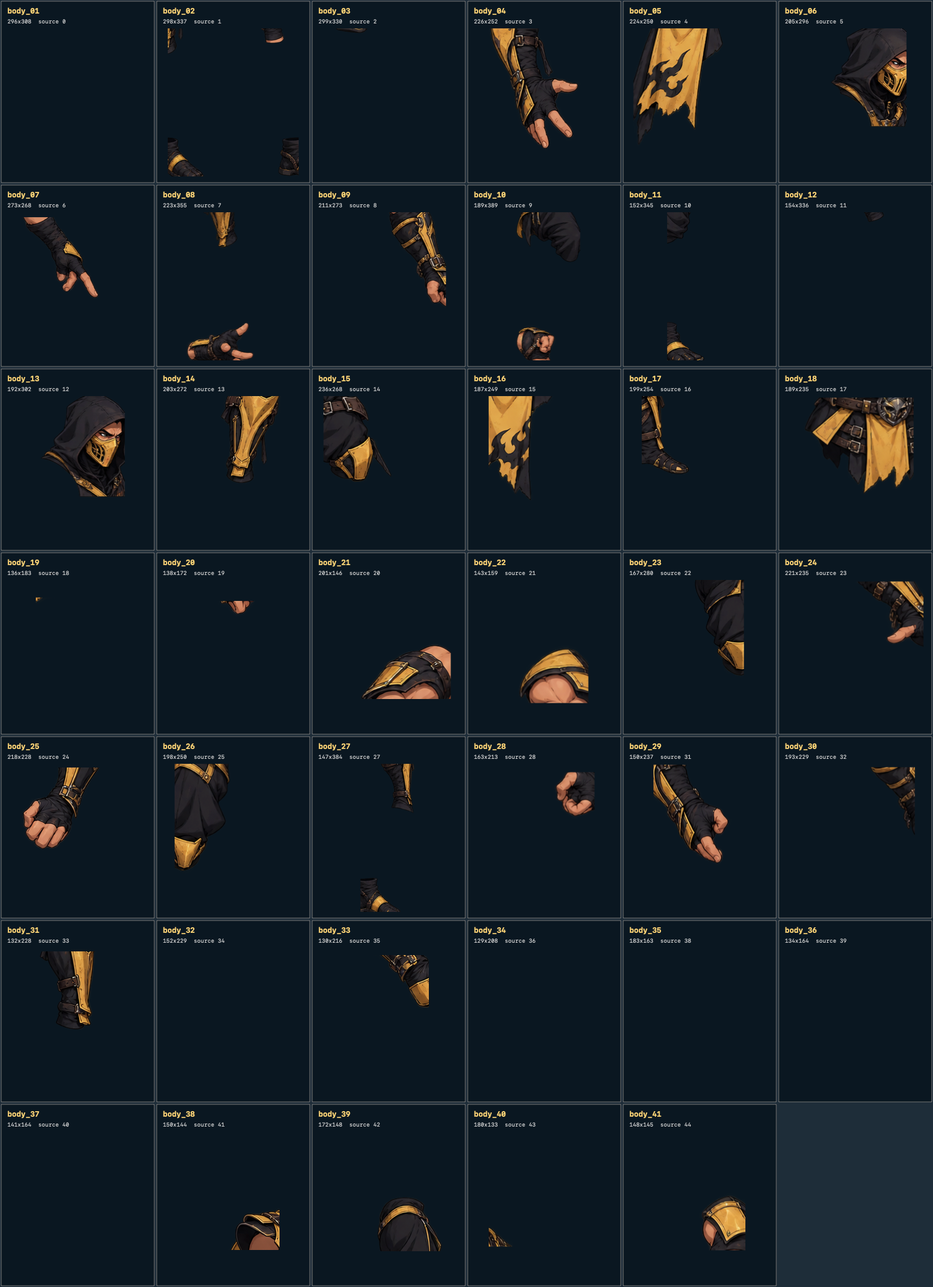
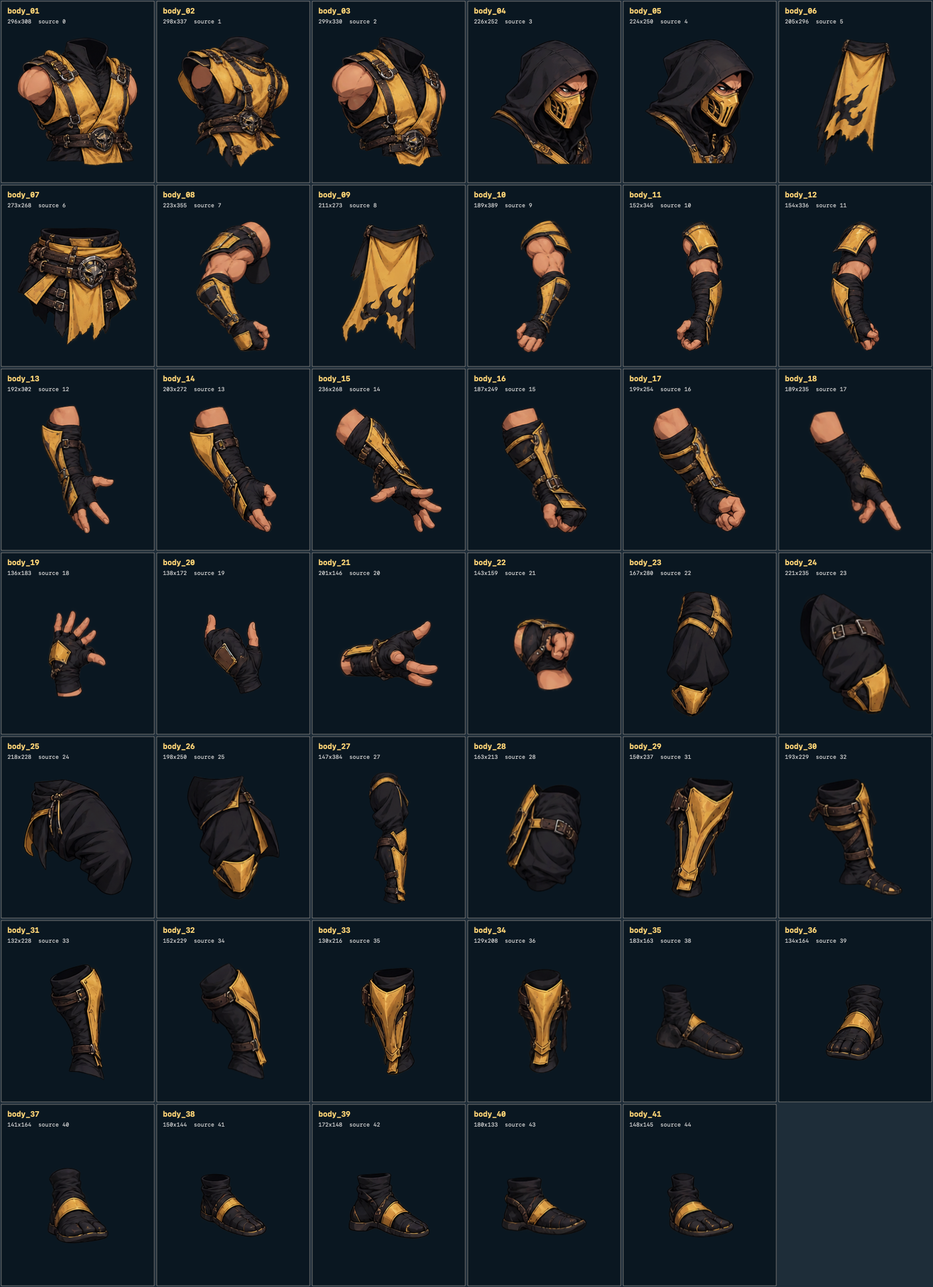
fix scorpion puppet atlas lab and mapping

diff --git a/runtime/rendering/scorpion-puppet-atlas.js b/runtime/rendering/scorpion-puppet-atlas.js
@@ -1,37 +1,190 @@
 (()=>{
 'use strict';
-// Phase 1 deliberately owns only the supplied body atlas. Weapon and VFX maps
-// remain preserved assets until their separate presentation work is approved.
+
+// Phase 1 loads only the supplied body PNG and its supplied rectangle map.
+// Disconnected alpha islands are derived in memory; no source asset is rewritten.
 const ROOT='assets/characters/scorpion/puppet/v1';
 const BODY_IMAGE=ROOT+'/body/scorpion_puppet_body_atlas_v1.png';
 const BODY_MAP=ROOT+'/body/scorpion_puppet_body_atlas_v1.json';
-const MODE_KEY='bb.scorpion-puppet-atlas.mode',DEV_KEY='bb.scorpion-puppet-atlas.dev';
-const state={mode:'FRAME',ready:false,failed:false,error:null,bodyImage:null,bodyMap:null,metrics:{puppetDraws:0,lastVisibleParts:0,lastDrawBounds:null,lastFeet:null,footSamples:[]}};
-try{state.mode=localStorage.getItem(MODE_KEY)==='PUPPET'?'PUPPET':'FRAME'}catch(_){ }
-const devEnabled=()=>{try{const query=new URLSearchParams(location.search);return query.has('scorpionPuppetAB')||localStorage.getItem(DEV_KEY)==='1'||['localhost','127.0.0.1','::1'].includes(location.hostname)}catch(_){return false}};
-function setMode(mode){state.mode=mode==='PUPPET'&&state.ready&&!state.failed?'PUPPET':'FRAME';try{localStorage.setItem(MODE_KEY,state.mode)}catch(_){ }const button=document.getElementById('bb-scorpion-puppet-ab-switch');if(button)button.textContent='SCORPION · '+state.mode+' (A/B)';return state.mode;}
-function ensureSwitch(){if(!devEnabled()||document.getElementById('bb-scorpion-puppet-ab-switch'))return;const button=document.createElement('button');button.id='bb-scorpion-puppet-ab-switch';button.type='button';button.title='Development-only Scorpion atlas prototype A/B switch';button.style.cssText='position:fixed;z-index:2147483000;right:10px;bottom:10px;padding:7px 9px;border:1px solid #f0b43c;border-radius:6px;background:#15110a;color:#ffe3a4;font:700 10px/1.1 system-ui;letter-spacing:.06em;box-shadow:0 2px 12px #0009';button.addEventListener('click',()=>setMode(state.mode==='FRAME'?'PUPPET':'FRAME'));document.body.appendChild(button);setMode(state.mode);}
-function imageReady(src){return new Promise((resolve,reject)=>{const image=new Image();image.decoding='async';image.onload=()=>resolve(image);image.onerror=()=>reject(new Error('Could not load '+src));image.src=src;});}
-function validateRectangleMap(map,image){if(!map||!Array.isArray(map.canvas)||map.canvas.length!==2||!map.parts)throw new Error('Body rectangle map shape is invalid');const [atlasWidth,atlasHeight]=map.canvas.map(Number);if(atlasWidth!==image.naturalWidth||atlasHeight!==image.naturalHeight)throw new Error('Body atlas dimensions do not match its rectangle map');for(const [name,rect] of Object.entries(map.parts)){for(const key of ['x','y','w','h'])if(!Number.isFinite(rect[key]))throw new Error('Invalid rectangle '+name);if(rect.x<0||rect.y<0||rect.w<=0||rect.h<=0||rect.x+rect.w>atlasWidth||rect.y+rect.h>atlasHeight)throw new Error('Out-of-bounds rectangle '+name);}return true;}
-async function loadBodyAtlas(){try{const [response,image]=await Promise.all([fetch(BODY_MAP,{cache:'no-store'}),imageReady(BODY_IMAGE)]);if(!response.ok)throw new Error('Could not load '+BODY_MAP+' ('+response.status+')');const map=await response.json();validateRectangleMap(map,image);state.bodyMap=map;state.bodyImage=image;state.ready=true;setMode(state.mode);}catch(error){state.failed=true;state.error=String(error?.message||error);setMode('FRAME');console.warn('Scorpion Puppet Atlas V1 disabled; retaining frame animation fallback.',error);}finally{ensureSwitch();}}
+const MODE_KEY='bb.scorpion-puppet-atlas.mode';
+const DEV_KEY='bb.scorpion-puppet-atlas.dev';
+const ASSIGNMENTS_KEY='bb.scorpion-puppet-atlas.components';
+const state={
+ mode:'FRAME',ready:false,failed:false,error:null,bodyImage:null,bodyMap:null,
+ components:new Map(),assignments:{},
+ lab:{open:false,selected:null,previewFrame:0},
+ metrics:{puppetDraws:0,lastVisibleParts:0,lastDrawBounds:null,lastFeet:null,footSamples:[]}
+};
+try{state.mode=localStorage.getItem(MODE_KEY)==='PUPPET'?'PUPPET':'FRAME';state.assignments=JSON.parse(localStorage.getItem(ASSIGNMENTS_KEY)||'{}')||{};}catch(_){ }
 
-// Names come from the reviewed, labeled pixel contact sheet, never body_XX order.
-const semanticParts=Object.freeze({head:'body_13',torso:'body_18',pelvis:'body_15',leftUpperArm:'body_04',leftLowerArm:'body_07',rightUpperArm:'body_09',rightLowerArm:'body_25',leftUpperLeg:'body_14',leftLowerLeg:'body_23',leftFoot:'body_21',rightUpperLeg:'body_26',rightLowerLeg:'body_31',rightFoot:'body_22'});
-const skeleton=Object.freeze({root:{parent:null,x:0,y:12},pelvis:{parent:'root',x:0,y:-20},torso:{parent:'pelvis',x:0,y:-17},head:{parent:'torso',x:0,y:-18},leftShoulder:{parent:'torso',x:-11,y:-6},leftElbow:{parent:'leftShoulder',x:-7,y:13},leftWrist:{parent:'leftElbow',x:-3,y:12},rightShoulder:{parent:'torso',x:11,y:-6},rightElbow:{parent:'rightShoulder',x:7,y:13},rightWrist:{parent:'rightElbow',x:3,y:12},leftHip:{parent:'pelvis',x:-7,y:1},leftKnee:{parent:'leftHip',x:-1,y:16},leftAnkle:{parent:'leftKnee',x:1,y:3},rightHip:{parent:'pelvis',x:7,y:1},rightKnee:{parent:'rightHip',x:1,y:16},rightAnkle:{parent:'rightKnee',x:-1,y:3}});
-const drawParts=Object.freeze({pelvis:[{part:'pelvis',w:25,h:21,px:.50,py:.20}],torso:[{part:'torso',w:29,h:29,px:.50,py:.20}],head:[{part:'head',w:20,h:23,px:.50,py:.88}],leftShoulder:[{part:'leftUpperArm',w:12,h:17,px:.25,py:.10}],leftElbow:[{part:'leftLowerArm',w:11,h:17,px:.25,py:.10}],rightShoulder:[{part:'rightUpperArm',w:12,h:17,px:.75,py:.10}],rightElbow:[{part:'rightLowerArm',w:11,h:16,px:.75,py:.10}],leftHip:[{part:'leftUpperLeg',w:12,h:18,px:.50,py:.08}],leftKnee:[{part:'leftLowerLeg',w:11,h:17,px:.50,py:.10}],leftAnkle:[{part:'leftFoot',w:17,h:8,px:.50,py:1}],rightHip:[{part:'rightUpperLeg',w:12,h:18,px:.50,py:.08}],rightKnee:[{part:'rightLowerLeg',w:11,h:17,px:.50,py:.10}],rightAnkle:[{part:'rightFoot',w:17,h:8,px:.50,py:1}]});
+const devEnabled=()=>{try{const query=new URLSearchParams(location.search);return query.has('scorpionPuppetAB')||query.has('scorpionPuppetLab')||localStorage.getItem(DEV_KEY)==='1'||['localhost','127.0.0.1','::1'].includes(location.hostname);}catch(_){return false;}};
+const semanticSlots=Object.freeze(['head','torso','pelvis','leftUpperArm','leftLowerArm','rightUpperArm','rightLowerArm','leftUpperLeg','leftLowerLeg','leftFoot','rightUpperLeg','rightLowerLeg','rightFoot']);
+
+// Candidate IDs intentionally select the largest isolated island from each
+// reviewed packing cell. The development lab permits replacing every candidate
+// with an evidence-backed body_XX.N island before testing the neutral pose.
+const candidateComponents=Object.freeze({
+ head:'body_04.0',torso:'body_03.0',pelvis:'body_07.0',
+ leftUpperArm:'body_08.0',leftLowerArm:'body_13.0',rightUpperArm:'body_10.0',rightLowerArm:'body_14.0',
+ leftUpperLeg:'body_26.0',leftLowerLeg:'body_31.0',leftFoot:'body_35.0',
+ rightUpperLeg:'body_28.0',rightLowerLeg:'body_32.0',rightFoot:'body_40.0'
+});
+const selectedComponentId=slot=>state.assignments[slot]||candidateComponents[slot];
+const componentFor=slot=>state.components.get(selectedComponentId(slot))||null;
+const assignmentsValid=()=>semanticSlots.every(slot=>componentFor(slot));
+
+function setMode(mode){
+ state.mode=mode==='PUPPET'&&state.ready&&!state.failed&&assignmentsValid()?'PUPPET':'FRAME';
+ try{localStorage.setItem(MODE_KEY,state.mode);}catch(_){ }
+ const button=document.getElementById('bb-scorpion-puppet-ab-switch');if(button)button.textContent='SCORPION · '+state.mode+' (A/B)';
+ return state.mode;
+}
+function imageReady(src){return new Promise((resolve,reject)=>{const image=new Image();image.decoding='async';image.onload=()=>resolve(image);image.onerror=()=>reject(new Error('Could not load '+src));image.src=src;});}
+function validateRectangleMap(map,image){
+ if(!map||!Array.isArray(map.canvas)||map.canvas.length!==2||!map.parts)throw new Error('Body rectangle map shape is invalid');
+ const [atlasWidth,atlasHeight]=map.canvas.map(Number);
+ if(atlasWidth!==image.naturalWidth||atlasHeight!==image.naturalHeight)throw new Error('Body atlas dimensions do not match its rectangle map');
+ for(const [name,rect] of Object.entries(map.parts)){
+  for(const key of ['x','y','w','h'])if(!Number.isFinite(rect[key]))throw new Error('Invalid rectangle '+name);
+  if(rect.x<0||rect.y<0||rect.w<=0||rect.h<=0||rect.x+rect.w>atlasWidth||rect.y+rect.h>atlasHeight)throw new Error('Out-of-bounds rectangle '+name);
+ }
+ return true;
+}
+
+// Extract eight-connected opaque islands for every map rectangle. A cell can
+// therefore contribute body_XX.0, body_XX.1, etc. without allowing its other
+// detached pixels to leak into the anatomical cutout being rendered.
+function extractBodyComponents(image,map){
+ const alphaThreshold=16;
+ state.components.clear();
+ for(const [cell,rect] of Object.entries(map.parts)){
+  const source=document.createElement('canvas');source.width=rect.w;source.height=rect.h;
+  const sourceCtx=source.getContext('2d',{willReadFrequently:true});sourceCtx.drawImage(image,rect.x,rect.y,rect.w,rect.h,0,0,rect.w,rect.h);
+  const data=sourceCtx.getImageData(0,0,rect.w,rect.h),pixels=data.data,total=rect.w*rect.h,seen=new Uint8Array(total),found=[];
+  for(let start=0;start<total;start++){
+   if(seen[start]||pixels[start*4+3]<=alphaThreshold)continue;
+   const queue=[start],members=[];seen[start]=1;let cursor=0,minX=rect.w,minY=rect.h,maxX=-1,maxY=-1;
+   while(cursor<queue.length){
+    const index=queue[cursor++],x=index%rect.w,y=Math.floor(index/rect.w);members.push(index);minX=Math.min(minX,x);minY=Math.min(minY,y);maxX=Math.max(maxX,x);maxY=Math.max(maxY,y);
+    for(let oy=-1;oy<=1;oy++)for(let ox=-1;ox<=1;ox++){
+     if(!ox&&!oy)continue;const nx=x+ox,ny=y+oy;if(nx<0||ny<0||nx>=rect.w||ny>=rect.h)continue;
+     const next=ny*rect.w+nx;if(!seen[next]&&pixels[next*4+3]>alphaThreshold){seen[next]=1;queue.push(next);}
+    }
+   }
+   if(members.length<24)continue;
+   found.push({members,minX,minY,maxX,maxY,pixels:members.length});
+  }
+  found.sort((a,b)=>b.pixels-a.pixels||a.minY-b.minY||a.minX-b.minX);
+  found.forEach((island,ordinal)=>{
+   const width=island.maxX-island.minX+1,height=island.maxY-island.minY+1,canvas=document.createElement('canvas');canvas.width=width;canvas.height=height;
+   const output=canvas.getContext('2d',{willReadFrequently:true}),outputData=output.createImageData(width,height);
+   for(const index of island.members){const x=index%rect.w,y=Math.floor(index/rect.w),from=index*4,to=((y-island.minY)*width+(x-island.minX))*4;outputData.data[to]=pixels[from];outputData.data[to+1]=pixels[from+1];outputData.data[to+2]=pixels[from+2];outputData.data[to+3]=pixels[from+3];}
+   output.putImageData(outputData,0,0);
+   const id=cell+'.'+ordinal;
+   state.components.set(id,Object.freeze({id,cell,ordinal,pixels:island.pixels,source:{x:rect.x+island.minX,y:rect.y+island.minY,w:width,h:height},canvas}));
+  });
+ }
+ if(!state.components.size)throw new Error('Body atlas did not yield usable alpha components');
+}
+async function loadBodyAtlas(){
+ try{
+  const [response,image]=await Promise.all([fetch(BODY_MAP,{cache:'no-store'}),imageReady(BODY_IMAGE)]);
+  if(!response.ok)throw new Error('Could not load '+BODY_MAP+' ('+response.status+')');
+  const map=await response.json();validateRectangleMap(map,image);extractBodyComponents(image,map);
+  state.bodyMap=map;state.bodyImage=image;state.ready=true;setMode(state.mode);
+ }catch(error){state.failed=true;state.error=String(error?.message||error);setMode('FRAME');console.warn('Scorpion Puppet Atlas V1 disabled; retaining frame animation fallback.',error);}finally{ensureControls();}
+}
+
+const skeleton=Object.freeze({
+ root:{parent:null,x:0,y:-8},pelvis:{parent:'root',x:0,y:-20},torso:{parent:'pelvis',x:0,y:-17},head:{parent:'torso',x:0,y:-4},
+ leftShoulder:{parent:'torso',x:-11,y:-6},leftElbow:{parent:'leftShoulder',x:-7,y:13},leftWrist:{parent:'leftElbow',x:-3,y:12},
+ rightShoulder:{parent:'torso',x:11,y:-6},rightElbow:{parent:'rightShoulder',x:7,y:13},rightWrist:{parent:'rightElbow',x:3,y:12},
+ leftHip:{parent:'pelvis',x:-7,y:1},leftKnee:{parent:'leftHip',x:-1,y:16},leftAnkle:{parent:'leftKnee',x:1,y:23},
+ rightHip:{parent:'pelvis',x:7,y:1},rightKnee:{parent:'rightHip',x:1,y:16},rightAnkle:{parent:'rightKnee',x:-1,y:23}
+});
+const drawParts=Object.freeze({
+ pelvis:[{slot:'pelvis',w:25,h:21,px:.50,py:.20}],torso:[{slot:'torso',w:29,h:29,px:.50,py:.20}],head:[{slot:'head',w:20,h:23,px:.50,py:.88}],
+ leftShoulder:[{slot:'leftUpperArm',w:12,h:17,px:.25,py:.10}],leftElbow:[{slot:'leftLowerArm',w:11,h:17,px:.25,py:.10}],
+ rightShoulder:[{slot:'rightUpperArm',w:12,h:17,px:.75,py:.10}],rightElbow:[{slot:'rightLowerArm',w:11,h:16,px:.75,py:.10}],
+ leftHip:[{slot:'leftUpperLeg',w:12,h:18,px:.50,py:.08}],leftKnee:[{slot:'leftLowerLeg',w:11,h:17,px:.50,py:.10}],leftAnkle:[{slot:'leftFoot',w:17,h:8,px:.50,py:1}],
+ rightHip:[{slot:'rightUpperLeg',w:12,h:18,px:.50,py:.08}],rightKnee:[{slot:'rightLowerLeg',w:11,h:17,px:.50,py:.10}],rightAnkle:[{slot:'rightFoot',w:17,h:8,px:.50,py:1}]
+});
 const layerOrder=Object.freeze(['leftHip','leftKnee','leftAnkle','rightHip','rightKnee','rightAnkle','pelvis','torso','leftShoulder','leftElbow','rightShoulder','rightElbow','head']);
-const idleKeys=Object.freeze([{t:0,torso:0,head:-.018,leftShoulder:.045,leftElbow:-.026,rightShoulder:-.038,rightElbow:.023},{t:.25,torso:-.018,head:-.042,leftShoulder:.092,leftElbow:-.058,rightShoulder:-.070,rightElbow:.046},{t:.50,torso:.011,head:.017,leftShoulder:.014,leftElbow:-.010,rightShoulder:-.011,rightElbow:.009},{t:.75,torso:.025,head:.044,leftShoulder:-.050,leftElbow:.032,rightShoulder:.064,rightElbow:-.042}]);
+const idleKeys=Object.freeze([
+ {t:0,torso:0,head:-.018,leftShoulder:.045,leftElbow:-.026,rightShoulder:-.038,rightElbow:.023},
+ {t:.25,torso:-.018,head:-.042,leftShoulder:.092,leftElbow:-.058,rightShoulder:-.070,rightElbow:.046},
+ {t:.50,torso:.011,head:.017,leftShoulder:.014,leftElbow:-.010,rightShoulder:-.011,rightElbow:.009},
+ {t:.75,torso:.025,head:.044,leftShoulder:-.050,leftElbow:.032,rightShoulder:.064,rightElbow:-.042}
+]);
 const multiply=(a,b)=>[a[0]*b[0]+a[2]*b[1],a[1]*b[0]+a[3]*b[1],a[0]*b[2]+a[2]*b[3],a[1]*b[2]+a[3]*b[3],a[0]*b[4]+a[2]*b[5]+a[4],a[1]*b[4]+a[3]*b[5]+a[5]];
 const point=(m,x,y)=>({x:m[0]*x+m[2]*y+m[4],y:m[1]*x+m[3]*y+m[5]});
 function idlePose(now){const scaled=(((now%1800)+1800)%1800/1800)*idleKeys.length,index=Math.floor(scaled)%idleKeys.length,next=idleKeys[(index+1)%idleKeys.length],current=idleKeys[index],raw=scaled-index,ease=raw*raw*(3-2*raw),pose={};for(const name of Object.keys(skeleton)){const a=Number(current[name]||0),b=Number(next[name]||0);pose[name]=a+(b-a)*ease;}return pose;}
 function jointMatrices(now){const pose=idlePose(now),out={};for(const [name,bone] of Object.entries(skeleton)){const r=pose[name]||0,c=Math.cos(r),s=Math.sin(r),local=[c,s,-s,c,bone.x,bone.y];out[name]=bone.parent?multiply(out[bone.parent],local):local;}return out;}
-function paintPart(ctx,spec,mat,unit){const rect=state.bodyMap.parts[semanticParts[spec.part]];if(!rect)throw new Error('Missing verified puppet component '+spec.part);ctx.save();ctx.transform(...mat);ctx.drawImage(state.bodyImage,rect.x,rect.y,rect.w,rect.h,-spec.w*unit*spec.px,-spec.h*unit*spec.py,spec.w*unit,spec.h*unit);ctx.restore();}
+function paintPart(ctx,spec,mat,unit){const component=componentFor(spec.slot);if(!component)throw new Error('No isolated component assigned to '+spec.slot);ctx.save();ctx.transform(...mat);ctx.drawImage(component.canvas,-spec.w*unit*spec.px,-spec.h*unit*spec.py,spec.w*unit,spec.h*unit);ctx.restore();}
 function currentTransformPoint(ctx,p){const m=ctx.getTransform();return {x:m.a*p.x+m.c*p.y+m.e,y:m.b*p.x+m.d*p.y+m.f};}
 function recordFeet(ctx,joints){const left=currentTransformPoint(ctx,point(joints.leftAnkle,0,0)),right=currentTransformPoint(ctx,point(joints.rightAnkle,0,0));state.metrics.lastFeet={left,right};state.metrics.footSamples.push({left,right});if(state.metrics.footSamples.length>720)state.metrics.footSamples.shift();}
-function render(ctx,{bodyHeight=68,now=performance.now(),measure=false}={}){if(state.mode!=='PUPPET'||!state.ready||state.failed||!ctx)return false;try{const unit=bodyHeight/68,joints=jointMatrices(now);for(const joint of layerOrder)for(const spec of drawParts[joint]||[])paintPart(ctx,spec,joints[joint],unit);if(!measure){state.metrics.puppetDraws++;state.metrics.lastVisibleParts=13;state.metrics.lastDrawBounds={left:-18*unit,right:18*unit,top:-64*unit,bottom:12*unit};recordFeet(ctx,joints);}return true;}catch(error){state.failed=true;state.error='Puppet draw failed: '+String(error?.message||error);setMode('FRAME');console.warn('Scorpion Puppet Atlas V1 draw failed; retaining frame animation fallback.',error);return false;}}
+function drawHierarchy(ctx,{bodyHeight=68,now=performance.now()}={}){
+ const unit=bodyHeight/68,joints=jointMatrices(now);for(const joint of layerOrder)for(const spec of drawParts[joint]||[])paintPart(ctx,spec,joints[joint],unit);return {unit,joints};
+}
+function render(ctx,{bodyHeight=68,now=performance.now(),measure=false}={}){
+ if(state.mode!=='PUPPET'||!state.ready||state.failed||!ctx||!assignmentsValid())return false;
+ try{const {unit,joints}=drawHierarchy(ctx,{bodyHeight,now});if(!measure){state.metrics.puppetDraws++;state.metrics.lastVisibleParts=13;state.metrics.lastDrawBounds={left:-18*unit,right:18*unit,top:-64*unit,bottom:12*unit};recordFeet(ctx,joints);}return true;}
+ catch(error){state.failed=true;state.error='Puppet draw failed: '+String(error?.message||error);setMode('FRAME');console.warn('Scorpion Puppet Atlas V1 draw failed; retaining frame animation fallback.',error);return false;}
+}
 function footDrift(){const samples=state.metrics.footSamples;if(!samples.length)return {samples:0,left:0,right:0,max:0};const drift=side=>{const xs=samples.map(sample=>sample[side].x),ys=samples.map(sample=>sample[side].y);return Math.max(Math.max(...xs)-Math.min(...xs),Math.max(...ys)-Math.min(...ys));};const left=drift('left'),right=drift('right');return {samples:samples.length,left,right,max:Math.max(left,right)};}
 function idleJointSamples(){return Array.from({length:37},(_,i)=>{const joints=jointMatrices(i*50);return {t:i*50,left:point(joints.leftAnkle,0,0),right:point(joints.rightAnkle,0,0)};});}
-function wantsPuppet(){return state.mode==='PUPPET'&&state.ready&&!state.failed;}
-window.BlazingScorpionPuppetAtlasV1=Object.freeze({version:'v1',durationMs:1800,joints:Object.freeze(Object.keys(skeleton)),semanticParts,get mode(){return state.mode},get ready(){return state.ready&&!state.failed},get error(){return state.error},get bodyAtlas(){return {src:BODY_IMAGE,width:state.bodyImage?.naturalWidth||0,height:state.bodyImage?.naturalHeight||0}},get metrics(){return {...state.metrics,footDrift:footDrift()}},setMode,wantsPuppet,render,validate:()=>state.bodyImage&&state.bodyMap?validateRectangleMap(state.bodyMap,state.bodyImage):false,footDrift,idleJointSamples,get rectangleMap(){return state.bodyMap;}});
-loadBodyAtlas();ensureSwitch();
+function wantsPuppet(){return state.mode==='PUPPET'&&state.ready&&!state.failed&&assignmentsValid();}
+
+function sortedComponents(){return [...state.components.values()].sort((a,b)=>Number(a.cell.slice(5))-Number(b.cell.slice(5))||a.ordinal-b.ordinal);}
+function stopLabPreview(){if(state.lab.previewFrame){cancelAnimationFrame(state.lab.previewFrame);state.lab.previewFrame=0;}}
+function drawLabPreview(now){
+ state.lab.previewFrame=0;if(!state.lab.open)return;
+ const panel=document.getElementById('bb-scorpion-puppet-lab'),canvas=panel?.querySelector('[data-preview]'),status=panel?.querySelector('[data-preview-status]');
+ if(!canvas||!status||!state.ready||!assignmentsValid())return;
+ const ctx=canvas.getContext('2d'),baseline=414,originX=canvas.width/2,originY=baseline-48,previewScale=4;
+ ctx.setTransform(1,0,0,1,0,0);ctx.clearRect(0,0,canvas.width,canvas.height);ctx.fillStyle='#0c1219';ctx.fillRect(0,0,canvas.width,canvas.height);
+ ctx.strokeStyle='#496170';ctx.lineWidth=2;ctx.beginPath();ctx.moveTo(18,baseline+.5);ctx.lineTo(canvas.width-18,baseline+.5);ctx.stroke();
+ ctx.fillStyle='#98b3c5';ctx.font='11px ui-monospace,monospace';ctx.fillText('isolated baseline — no battlefield pixels',18,baseline+14);
+ ctx.save();ctx.translate(originX,originY);ctx.scale(previewScale,previewScale);const {joints}=drawHierarchy(ctx,{bodyHeight:90,now});ctx.restore();
+ const left=point(joints.leftAnkle,0,0),right=point(joints.rightAnkle,0,0),drift=footDrift();
+ for(const [label,foot,color] of [['L',left,'#74e6bd'],['R',right,'#ffd46a']]){const x=originX+foot.x*previewScale,y=originY+foot.y*previewScale;ctx.fillStyle=color;ctx.beginPath();ctx.arc(x,y,4,0,Math.PI*2);ctx.fill();ctx.font='10px ui-monospace,monospace';ctx.fillText(label+' ankle',x+7,y-5);}
+ status.textContent='Live 1.8 s hierarchy preview · L/R ankle markers are transformed joints · gameplay samples '+drift.samples+' · max measured drift '+drift.max.toFixed(3)+' px';
+ state.lab.previewFrame=requestAnimationFrame(drawLabPreview);
+}
+function scheduleLabPreview(){if(state.lab.open&&!state.lab.previewFrame)state.lab.previewFrame=requestAnimationFrame(drawLabPreview);}
+function renderLab(){
+ const panel=document.getElementById('bb-scorpion-puppet-lab');if(!panel)return;const canvas=panel.querySelector('canvas'),status=panel.querySelector('[data-status]');
+ const components=sortedComponents(),columns=5,cellW=156,cellH=176,rows=Math.ceil(components.length/columns);canvas.width=columns*cellW;canvas.height=Math.max(cellH,rows*cellH);canvas.style.width=canvas.width+'px';canvas.style.height=canvas.height+'px';canvas.__bbComponents=components;
+ const ctx=canvas.getContext('2d');ctx.fillStyle='#10151d';ctx.fillRect(0,0,canvas.width,canvas.height);ctx.textBaseline='top';
+ components.forEach((component,index)=>{const col=index%columns,row=Math.floor(index/columns),x=col*cellW,y=row*cellH,selected=component.id===state.lab.selected;ctx.fillStyle=selected?'#292213':'#151c25';ctx.fillRect(x+3,y+3,cellW-6,cellH-6);ctx.strokeStyle=selected?'#f0b43c':'#536271';ctx.strokeRect(x+3.5,y+3.5,cellW-7,cellH-7);const fit=Math.min((cellW-20)/component.canvas.width,(cellH-49)/component.canvas.height,1),w=component.canvas.width*fit,h=component.canvas.height*fit;ctx.drawImage(component.canvas,x+(cellW-w)/2,y+34+(cellH-49-h)/2,w,h);ctx.font='700 11px ui-monospace,monospace';ctx.fillStyle='#ffe3a4';ctx.fillText(component.id,x+9,y+10);ctx.font='10px ui-monospace,monospace';ctx.fillStyle='#b8c7d1';ctx.fillText(component.canvas.width+'×'+component.canvas.height+' · '+component.pixels+' px',x+9,y+22);});
+ const selected=state.components.get(state.lab.selected);status.textContent=selected?'Selected '+selected.id+' ('+selected.canvas.width+'×'+selected.canvas.height+', '+selected.pixels+' opaque px)':'Select an isolated alpha island, choose an anatomical slot, then assign it for the live PUPPET test.';scheduleLabPreview();
+}
+function ensureLab(){
+ if(!devEnabled()||document.getElementById('bb-scorpion-puppet-lab'))return;
+ const panel=document.createElement('section');panel.id='bb-scorpion-puppet-lab';panel.hidden=true;panel.style.cssText='position:fixed;z-index:2147483001;inset:6vh 4vw 5vh;overflow:auto;padding:12px;border:1px solid #f0b43c;border-radius:9px;background:#10151df7;color:#f6e5bd;font:12px/1.35 system-ui;box-shadow:0 12px 40px #000c';
+ const title=document.createElement('div');title.innerHTML='<strong>SCORPION · ATLAS LAB</strong> <span style="opacity:.75">Derived 8-connected alpha islands from the unchanged body atlas</span>';panel.appendChild(title);
+ const controls=document.createElement('div');controls.style.cssText='display:flex;gap:8px;align-items:center;flex-wrap:wrap;margin:9px 0';
+ const select=document.createElement('select');select.dataset.slot='';for(const slot of semanticSlots){const option=document.createElement('option');option.value=slot;option.textContent=slot;select.appendChild(option);}controls.appendChild(select);
+ const assign=document.createElement('button');assign.type='button';assign.textContent='Assign selected + test';assign.onclick=()=>{if(!state.lab.selected)return;state.assignments[select.value]=state.lab.selected;try{localStorage.setItem(ASSIGNMENTS_KEY,JSON.stringify(state.assignments));}catch(_){ }setMode('PUPPET');renderLab();};controls.appendChild(assign);
+ const reset=document.createElement('button');reset.type='button';reset.textContent='Reset candidates';reset.onclick=()=>{state.assignments={};try{localStorage.removeItem(ASSIGNMENTS_KEY);}catch(_){ }setMode('FRAME');renderLab();};controls.appendChild(reset);
+ const close=document.createElement('button');close.type='button';close.textContent='Close lab';close.onclick=()=>{panel.hidden=true;state.lab.open=false;stopLabPreview();};controls.appendChild(close);panel.appendChild(controls);
+ const preview=document.createElement('canvas');preview.dataset.preview='';preview.width=400;preview.height=452;preview.style.cssText='display:block;width:400px;max-width:100%;margin:8px 0;border:1px solid #536271;background:#0c1219';panel.appendChild(preview);
+ const previewStatus=document.createElement('output');previewStatus.dataset.previewStatus='';previewStatus.style.cssText='display:block;margin:3px 0 9px;color:#9fd3c7;font:11px ui-monospace,monospace';panel.appendChild(previewStatus);
+ const status=document.createElement('div');status.dataset.status='';status.style.cssText='margin:6px 0 10px;color:#b8c7d1';panel.appendChild(status);
+ const canvas=document.createElement('canvas');canvas.style.cssText='display:block;max-width:none;background:#10151d;cursor:crosshair';canvas.onclick=event=>{const rect=canvas.getBoundingClientRect(),x=(event.clientX-rect.left)*(canvas.width/rect.width),y=(event.clientY-rect.top)*(canvas.height/rect.height),index=Math.floor(y/176)*5+Math.floor(x/156),component=canvas.__bbComponents?.[index];if(component){state.lab.selected=component.id;renderLab();}};panel.appendChild(canvas);document.body.appendChild(panel);
+}
+function openLab(){ensureLab();const panel=document.getElementById('bb-scorpion-puppet-lab');if(!panel)return false;panel.hidden=false;state.lab.open=true;renderLab();scheduleLabPreview();return true;}
+function ensureControls(){
+ if(!devEnabled())return;
+ if(!document.getElementById('bb-scorpion-puppet-ab-switch')){const button=document.createElement('button');button.id='bb-scorpion-puppet-ab-switch';button.type='button';button.title='Development-only Scorpion atlas prototype A/B switch';button.style.cssText='position:fixed;z-index:2147483000;right:10px;bottom:10px;padding:7px 9px;border:1px solid #f0b43c;border-radius:6px;background:#15110a;color:#ffe3a4;font:700 10px/1.1 system-ui;letter-spacing:.06em;box-shadow:0 2px 12px #0009';button.addEventListener('click',()=>setMode(state.mode==='FRAME'?'PUPPET':'FRAME'));document.body.appendChild(button);setMode(state.mode);}
+ if(!document.getElementById('bb-scorpion-puppet-lab-switch')){const button=document.createElement('button');button.id='bb-scorpion-puppet-lab-switch';button.type='button';button.textContent='SCORPION · ATLAS LAB';button.title='Development-only isolated-component atlas lab';button.style.cssText='position:fixed;z-index:2147483000;right:10px;bottom:45px;padding:7px 9px;border:1px solid #7999b8;border-radius:6px;background:#0d1723;color:#d7e7f7;font:700 10px/1.1 system-ui;letter-spacing:.06em;box-shadow:0 2px 12px #0009';button.addEventListener('click',openLab);document.body.appendChild(button);}
+ ensureLab();
+}
+
+window.BlazingScorpionPuppetAtlasV1=Object.freeze({
+ version:'v1',durationMs:1800,joints:Object.freeze(Object.keys(skeleton)),semanticSlots,candidateComponents,
+ get mode(){return state.mode},get ready(){return state.ready&&!state.failed},get error(){return state.error},get bodyAtlas(){return {src:BODY_IMAGE,width:state.bodyImage?.naturalWidth||0,height:state.bodyImage?.naturalHeight||0}},get metrics(){return {...state.metrics,footDrift:footDrift()}},get componentAssignments(){return Object.freeze(Object.fromEntries(semanticSlots.map(slot=>[slot,selectedComponentId(slot)])));},get components(){return sortedComponents().map(({id,cell,ordinal,pixels,source,canvas})=>({id,cell,ordinal,pixels,source,width:canvas.width,height:canvas.height}));},
+ setMode,wantsPuppet,render,openLab,validate:()=>state.bodyImage&&state.bodyMap?validateRectangleMap(state.bodyMap,state.bodyImage)&&assignmentsValid():false,footDrift,idleJointSamples,get rectangleMap(){return state.bodyMap;}
+});
+loadBodyAtlas();
 })();

diff --git a/scripts/create-scorpion-puppet-contact-sheet.swift b/scripts/create-scorpion-puppet-contact-sheet.swift
@@ -28,7 +28,7 @@ for (index, entry) in ordered.enumerated() {
     NSColor(calibratedRed: 0.04, green: 0.07, blue: 0.10, alpha: 1).setFill(); NSBezierPath(rect: cell).fill()
     NSColor(calibratedWhite: 0.38, alpha: 1).setStroke(); NSBezierPath(rect: cell).stroke()
     let rect = entry.value
-    let sourceRect = CGRect(x: rect.x, y: CGFloat(sourceCG.height) - rect.y - rect.h, width: rect.w, height: rect.h)
+    let sourceRect = CGRect(x: rect.x, y: rect.y, width: rect.w, height: rect.h)
     if let crop = sourceCG.cropping(to: sourceRect) {
         let fit = min((cellW - 24) / CGFloat(crop.width), (cellH - 58) / CGFloat(crop.height), 1)
         let width = CGFloat(crop.width) * fit, height = CGFloat(crop.height) * fit

diff --git a/docs/scorpion-puppet-atlas-v1.md b/docs/scorpion-puppet-atlas-v1.md
@@ -8,24 +8,26 @@ This branch holds a development-only A/B prototype. The existing Scorpion V2 twe
 - weapons/ and vfx/, together with their supplied rectangle maps, are retained separately and are not loaded into the fighter renderer.
 - The original source ZIP is retained at the repository root.
 
-## Verified part evidence and pivots
+## Component evidence, lab, and pivots
 
-[`scorpion-puppet-body-contact-sheet.png`](validation/scorpion-puppet-atlas-v1/scorpion-puppet-body-contact-sheet.png) was generated directly from the unmodified body PNG and JSON rectangles. The mapping used by the neutral puppet was selected by the visible pixels in that sheet—not by `body_XX` ordering:
+[`scorpion-puppet-body-contact-sheet.png`](validation/scorpion-puppet-atlas-v1/scorpion-puppet-body-contact-sheet.png) is the reviewed source evidence: all 41 supplied body cells are coherent opaque cutouts. At runtime the development-only **SCORPION · ATLAS LAB** repeats that inspection with eight-connected alpha segmentation and labels the resulting `body_XX.N` cutouts from the unchanged PNG and JSON. It includes an isolated, animated hierarchy preview with transformed ankle markers and a live measured-drift readout. The lab lets a reviewer assign each inspected island to a semantic slot and immediately test that assignment in PUPPET mode; local development assignments are stored separately and never mutate supplied assets.
+
+The verified defaults below are each visible in the contact sheet and the lab. They remain editable in the lab for comparison, but no source rectangle is treated as a joint:
 
 | Semantic part | Atlas ID | Pixel evidence |
 | --- | --- | --- |
-| head/mask | `body_13` | front hood, eye and gold mask |
-| torso | `body_18` | belt, chest armour and yellow waist panels |
-| pelvis | `body_15` | black hip cloth and gold hip guard |
-| left arm | `body_04`, `body_07` | armoured open-hand segments |
-| right arm | `body_09`, `body_25` | bracer and clenched-hand segments |
-| left leg/foot | `body_14`, `body_23`, `body_21` | gold thigh, trouser/shin and boot pixels |
-| right leg/foot | `body_26`, `body_31`, `body_22` | black/gold thigh, shin and boot pixels |
+| head/mask | `body_04.0` | hood, eye, and gold mask |
+| torso | `body_03.0` | front torso and yellow waist tab |
+| pelvis | `body_07.0` | belt, pelvis, and hanging cloth |
+| left arm | `body_08.0`, `body_13.0` | upper arm and forearm/open hand |
+| right arm | `body_10.0`, `body_14.0` | armoured arm and forward fist |
+| left leg/foot | `body_26.0`, `body_31.0`, `body_35.0` | thigh, shin guard, and boot |
+| right leg/foot | `body_28.0`, `body_32.0`, `body_40.0` | thigh, shin guard, and boot |
 
-The supplied maps define crop rectangles, not joints. Independent pivots are authored in local fighter space: root `(0,12)`, pelvis `(0,-20)`, torso `(0,-17)` from pelvis, head `(0,-18)` from torso, shoulders `(±11,-6)`, elbows `(±7,13)`, wrists `(±3,12)`, hips `(±7,1)`, knees `(±1,16)`, and ankles `(±1,3)`. Each cutout additionally has a local attachment pivot; feet are bottom-pivoted at their ankles. Rectangle centres are never used as joints.
+The supplied maps define crop rectangles, not joints. Independent pivots are authored in local fighter space: root `(0,-8)`, pelvis `(0,-20)`, torso `(0,-17)` from pelvis, head `(0,-4)` from torso, shoulders `(±11,-6)`, elbows `(±7,13)`, wrists `(±3,12)`, hips `(±7,1)`, knees `(±1,16)`, and ankles `(±1,23)`. Each cutout additionally has a local attachment pivot; feet are bottom-pivoted at their ankles. Rectangle centres are never used as joints.
 
 The 1.8-second idle has four interpolated keys. Only torso, head and arm rotations change; both hip-knee-ankle chains and both foot cutouts stay invariant. The narrow `drawUnit` seam calls the puppet only after the real Scorpion’s normal world transform/facing/scale has been established. It does not substitute a sprite, change Scorpion’s name, or intercept `ctx.drawImage`. Atlas load, rectangle validation, and drawing failure all return that same draw call to FRAME mode.
 
 ## Known reconstruction limits
 
-The map does not supply an artist semantic manifest or final armour-layer order. The selected parts above are visually evidenced, but unselected components are intentionally not guessed into the body. Exact armour-layer refinements and all weapon, chain, recoil, attack, run, and VFX work remain out of scope for Phase 1.
+The map does not supply an artist semantic manifest or final armour-layer order. The lab exists specifically to verify or replace the initial candidates without guessing from packing-cell IDs. Exact armour-layer refinements and all weapon, chain, recoil, attack, run, and VFX work remain out of scope for Phase 1.
